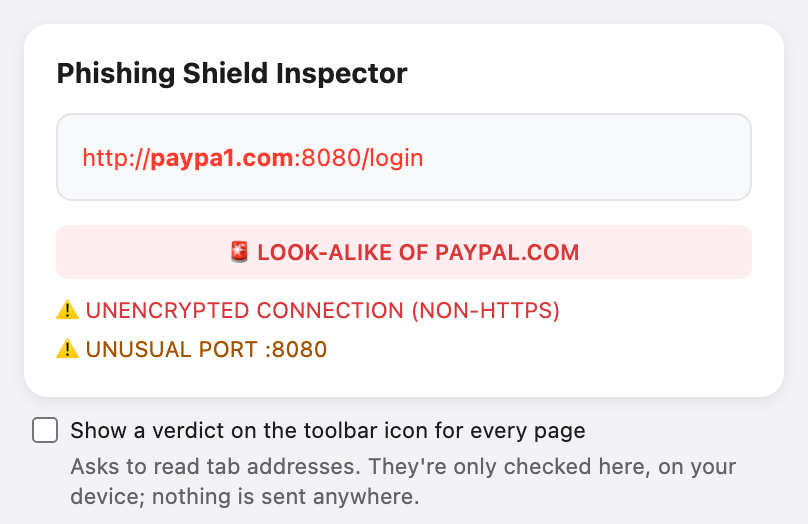
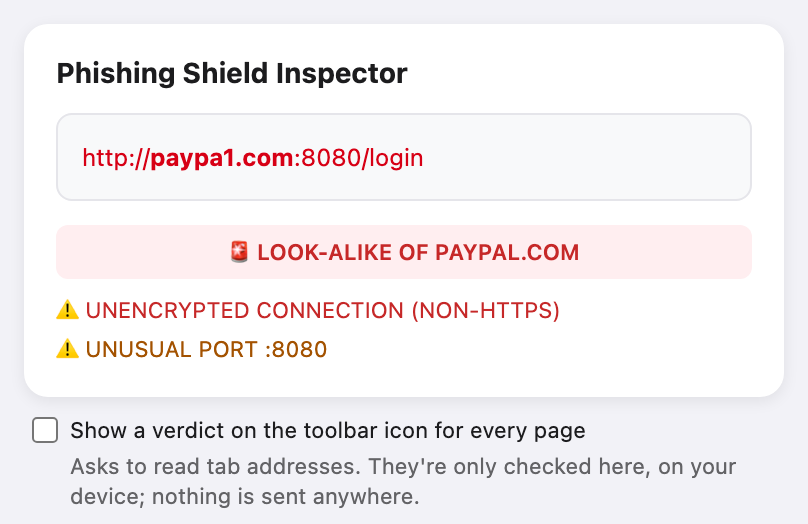
Release 1.1.0; light-mode contrast meets WCAG AA
Red URL text (#d70015), dimmed URL text (#6e6e73) and the red badge,
findings and toolbar badge (#c62828) are slightly darker: they measured
3.4, 3.1 and 4.1:1 and now pass 4.5:1. README screenshots regenerated.
manifest.json goes to 1.1.0; CHANGELOG dates the release.

Changed region(s): [[0.0928, 0.2748, 0.526, 0.3359]]

diff --git a/popup.css b/popup.css
@@ -7,13 +7,13 @@
   --text: #1c1c1e;
   --url-bg: #f8f9fa;
   --url-border: #e5e5ea;
-  --dim: #8e8e93;
-  --danger: #ff3b30;
+  --dim: #6e6e73;
+  --danger: #d70015;
   --warn: #a35200;
   --safe-bg: #e3fbe3;
   --safe-text: #1e7e34;
   --danger-bg: #ffeef0;
-  --danger-text: #d9383a;
+  --danger-text: #c62828;
   --warn-bg: #fff4e5;
   --warn-text: #a35200;
   --neutral-bg: #f2f2f7;

diff --git a/background.js b/background.js
@@ -8,7 +8,7 @@ importScripts('lib/psl-data.js', 'lib/brands.js', 'lib/analyze.js');
 const TABS = { permissions: ['tabs'] };
 
 const BADGES = {
-  danger: { text: '!', color: '#d9383a' },
+  danger: { text: '!', color: '#c62828' },
   warn: { text: '!', color: '#a35200' },
   safe: { text: '✓', color: '#1e7e34' },
 };

diff --git a/CHANGELOG.md b/CHANGELOG.md
@@ -6,6 +6,10 @@ Releases follow the project's git tags. Entries were reconstructed from the comm
 
 ## [Unreleased]
 
+## [1.1.0] - 2026-11-09
+
+- Light-mode contrast meets WCAG AA: red URL text (`#d70015`), dimmed URL text (`#6e6e73`) and the red badge, findings and toolbar badge (`#c62828`) are slightly darker
+
 - Brand look-alikes: ~70 brands phishing often impersonates (global + Swedish: BankID, Swish, Swedbank, Nordea, Skatteverket, PostNord, …) in `lib/brands.js`; flags look-alike domains (`paypa1.com`, `netfilx.com`), brand names on sites the brand doesn't own (`paypal.com.secure-login.net`, `swedbank-login.se`) and brand names on unexpected endings (`paypal.support`)
 - The full Public Suffix List (ICANN + private domains) is bundled in `lib/psl-data.js` and decides the registrable domain; `npm run update-psl` refreshes it. Replaces the short second-level-TLD and shared-hosting lists
 - Opt-in toolbar verdict: a popup checkbox requests the optional `tabs` permission; while granted, `background.js` badges every tab's icon (red/orange `!`, green `✓`). Installs still ask only for `activeTab`
